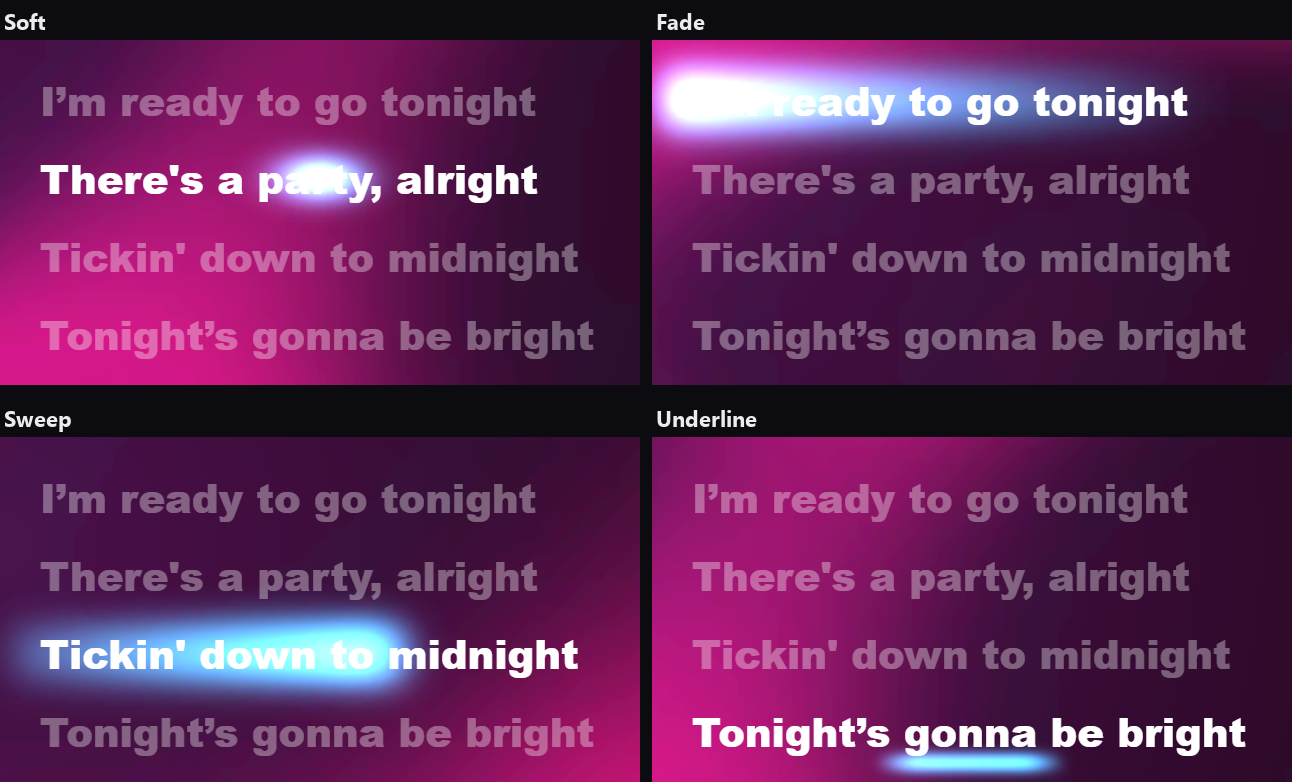
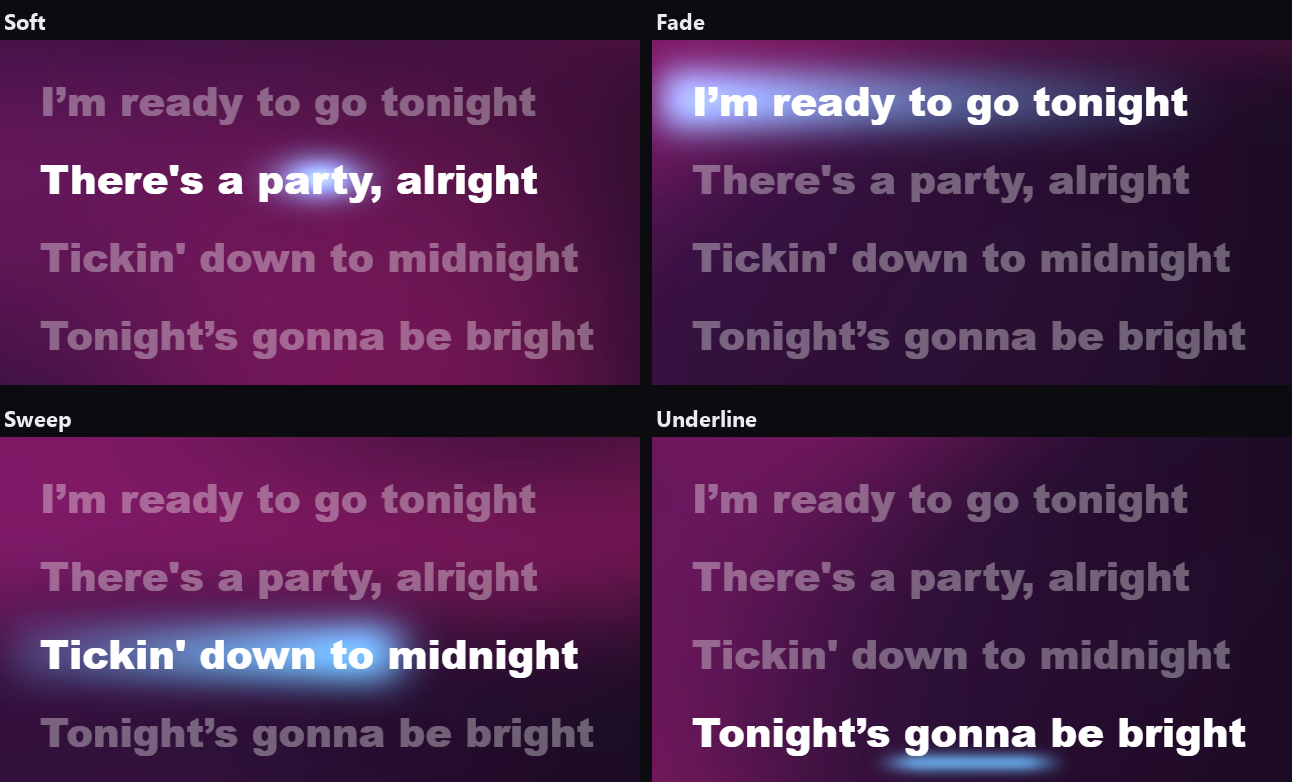
Highlight picture: softer boost so the words stay readable

diff --git a/test/shots-highlights.js b/test/shots-highlights.js
@@ -24,7 +24,7 @@ const AT = { soft: [1, 2], fade: [0, 4], sweep: [2, 2], underline: [3, 1] };
       }
       btn.click();
     }, look);
-    await p.addStyleTag({ content: ".lp-modal-wrap{display:none!important}#SpicyLyricsPage .lp-canvas{filter:brightness(3.2) saturate(1.6)!important;opacity:1!important}" });
+    await p.addStyleTag({ content: ".lp-modal-wrap{display:none!important}#SpicyLyricsPage .lp-canvas{filter:brightness(1.8) saturate(1.3)!important;opacity:1!important}" });
     await p.waitForTimeout(1000);
     await p.evaluate(([li, wi]) => {
       window.__hold = true;
